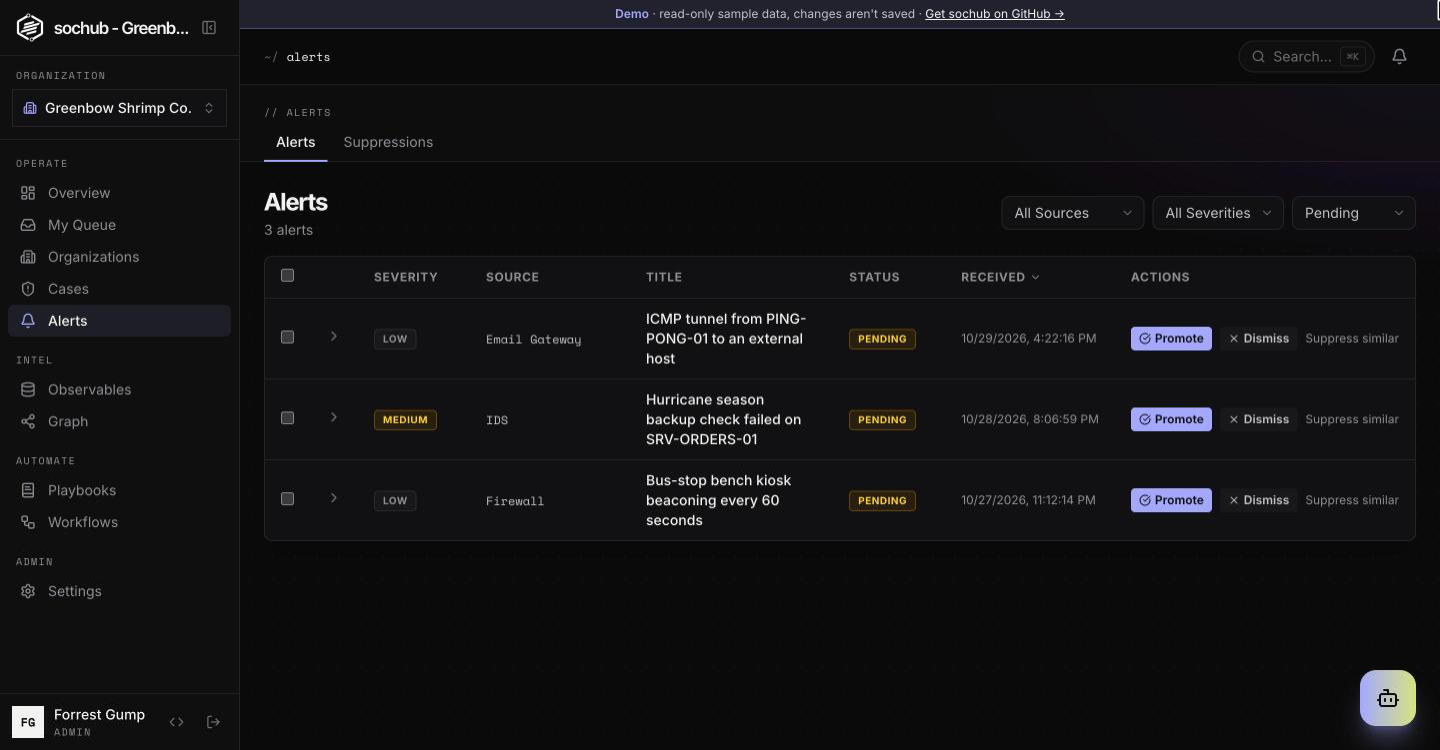
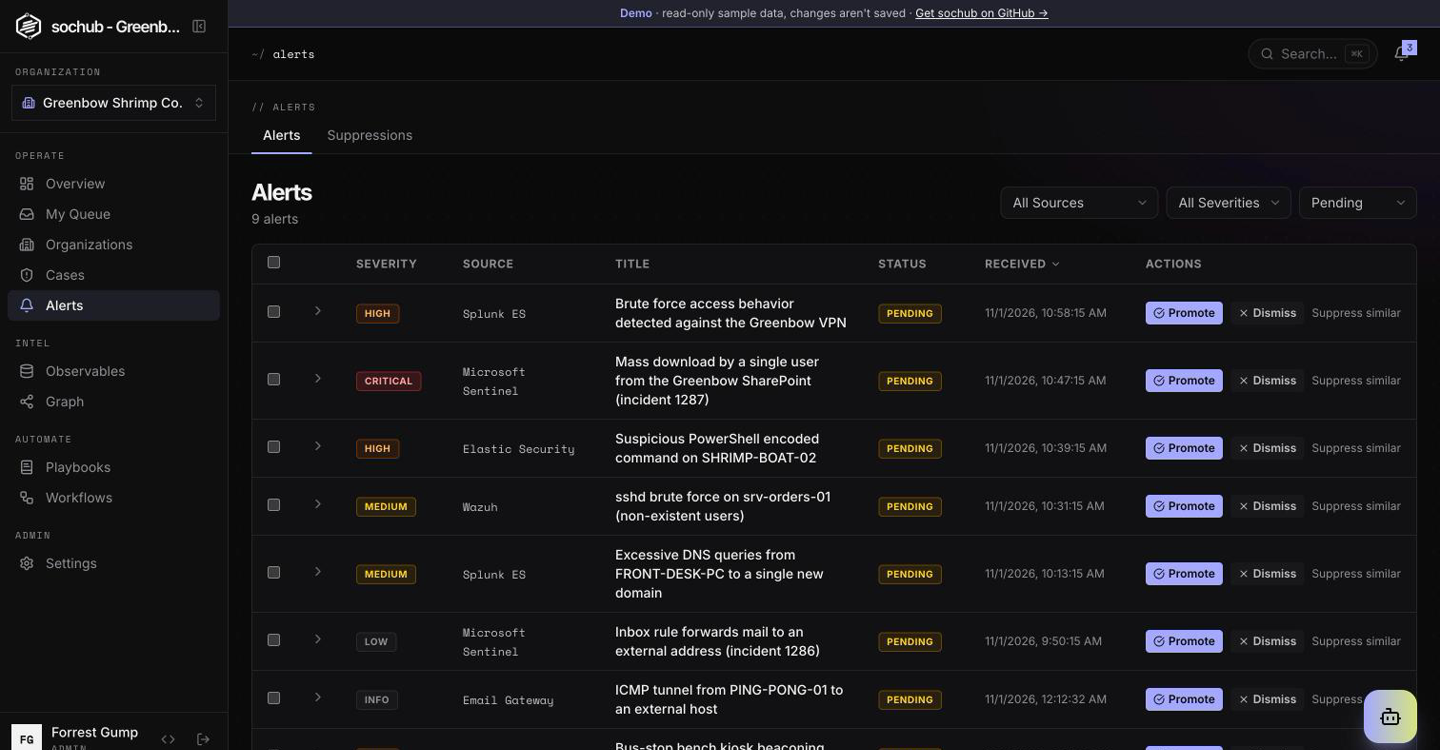
feat(demo): pending alerts from SIEMs (Splunk ES, Microsoft Sentinel, Elastic, Wazuh)
Six alerts with payloads shaped like each product's real output (Splunk ES
notable event, Sentinel incident, Elastic Security detection alert, Wazuh
alert), using Greenbow's fictional users and hosts and documentation-range
IPs/example domains, so the demo shows what the SIEM -> case flow looks like.

diff --git a/backend/app/scripts/demo_fixtures.py b/backend/app/scripts/demo_fixtures.py
@@ -74,6 +74,65 @@ COMMENTS = [
 ]
 
 
+def siem_alerts(now: datetime) -> list[dict]:
+    """Alerts as SIEMs actually send them (webhook or a pull workflow): each payload is shaped like that product's
+    output, with Greenbow's fictional users and hosts and documentation-range IPs and example domains."""
+    t = lambda minutes: (now - timedelta(minutes=minutes)).strftime("%Y-%m-%dT%H:%M:%SZ")  # noqa: E731
+    return [
+        {"source": "Splunk ES", "external_id": "6E1C3F7A-2B44-4C1D-9E0B-5A8D2F1E7C44@@notable@@a91f0c2e", "minutes": 7,
+         "severity": "high", "title": "Brute force access behavior detected against the Greenbow VPN",
+         "payload": {"search_name": "Access - Brute Force Access Behavior Detected - Rule", "rule_name": "Brute Force Access Behavior Detected",
+                     "security_domain": "access", "urgency": "high", "status_label": "New", "owner": "unassigned",
+                     "src": "198.51.100.23", "dest": "vpn.greenbow.example", "user": "jenny@greenbow.example", "app": "GlobalProtect",
+                     "count": 312, "failure": 309, "success": 3, "orig_time": t(9),
+                     "annotations": {"mitre_attack": ["T1110.003"], "kill_chain_phases": ["Exploitation"]},
+                     "drilldown_search": "| tstats count from datamodel=Authentication where Authentication.src=198.51.100.23 by Authentication.user"}},
+        {"source": "Microsoft Sentinel", "external_id": "c8f2d6e0-41b7-4a5e-8f3c-2d9e7b1a6f30", "minutes": 18,
+         "severity": "critical", "title": "Mass download by a single user from the Greenbow SharePoint (incident 1287)",
+         "payload": {"name": "c8f2d6e0-41b7-4a5e-8f3c-2d9e7b1a6f30", "type": "Microsoft.SecurityInsights/Incidents",
+                     "properties": {"incidentNumber": 1287, "title": "Mass download by a single user", "severity": "High",
+                                    "status": "New", "createdTimeUtc": t(18), "firstActivityTimeUtc": t(41), "lastActivityTimeUtc": t(20),
+                                    "additionalData": {"alertsCount": 2, "tactics": ["Exfiltration", "Collection"],
+                                                       "alertProductNames": ["Microsoft Defender for Cloud Apps"]},
+                                    "description": "lt.dan@greenbow.example downloaded 1,284 files from the 'Shrimp Recipes' site in 20 minutes.",
+                                    "labels": [{"labelName": "insider-risk", "labelType": "User"}],
+                                    "relatedAnalyticRuleIds": ["/subscriptions/00000000-0000-0000-0000-000000000000/resourceGroups/soc/providers/Microsoft.OperationalInsights/workspaces/greenbow-sentinel/providers/Microsoft.SecurityInsights/alertRules/5b7e1c90-mass-download"]}}},
+        {"source": "Elastic Security", "external_id": "b3b0f0d4c3a1e8f2d5c7a9e1b4d6f8a0c2e4f6a8", "minutes": 26,
+         "severity": "high", "title": "Suspicious PowerShell encoded command on SHRIMP-BOAT-02",
+         "payload": {"@timestamp": t(26), "kibana.alert.rule.name": "Suspicious PowerShell Encoded Command",
+                     "kibana.alert.rule.rule_id": "9a1e0a2b-5c3d-4e6f-8a7b-0c1d2e3f4a5b", "kibana.alert.severity": "high",
+                     "kibana.alert.risk_score": 73, "kibana.alert.workflow_status": "open",
+                     "host": {"name": "SHRIMP-BOAT-02", "os": {"family": "windows"}},
+                     "user": {"name": "bubba", "domain": "GREENBOW"},
+                     "process": {"name": "powershell.exe", "command_line": "powershell.exe -NoP -W Hidden -enc SQBFAFgAIAAoAE4AZQB3AC0ATwBiAGoAZQBjAHQAIABOAGUAdAAuAFcAZQBiAEMAbABpAGUAbgB0ACkA",
+                                 "parent": {"name": "WINWORD.EXE"}},
+                     "threat": [{"framework": "MITRE ATT&CK", "tactic": {"id": "TA0002", "name": "Execution"},
+                                 "technique": [{"id": "T1059", "name": "Command and Scripting Interpreter",
+                                                "subtechnique": [{"id": "T1059.001", "name": "PowerShell"}]}]}]}},
+        {"source": "Wazuh", "external_id": "1730197442.4021337", "minutes": 34,
+         "severity": "medium", "title": "sshd brute force on srv-orders-01 (non-existent users)",
+         "payload": {"timestamp": t(34), "rule": {"id": "5712", "level": 10, "description": "sshd: brute force trying to get access to the system. Non existent user.",
+                                                  "groups": ["syslog", "sshd", "authentication_failures"], "firedtimes": 8,
+                                                  "mitre": {"id": ["T1110"], "tactic": ["Credential Access"], "technique": ["Brute Force"]}},
+                     "agent": {"id": "004", "name": "srv-orders-01", "ip": "10.20.4.11"},
+                     "data": {"srcip": "203.0.113.9", "srcuser": "shrimpadmin"},
+                     "full_log": "sshd[2214]: Invalid user shrimpadmin from 203.0.113.9 port 51544",
+                     "location": "/var/log/auth.log"}},
+        {"source": "Splunk ES", "external_id": "0B7D9E21-8F63-4A0C-B1E5-7C2F4A9D3E18@@notable@@4c7e2a90", "minutes": 52,
+         "severity": "medium", "title": "Excessive DNS queries from FRONT-DESK-PC to a single new domain",
+         "payload": {"search_name": "Network - Excessive DNS Queries - Rule", "security_domain": "network", "urgency": "medium",
+                     "src": "10.20.1.42", "src_nt_host": "FRONT-DESK-PC", "query": "x7f3.cdn-track.example.net", "count": 4182,
+                     "unique_subdomains": 3907, "orig_time": t(55), "annotations": {"mitre_attack": ["T1071.004", "T1048"]}}},
+        {"source": "Microsoft Sentinel", "external_id": "5a1f9b3c-77d2-4e08-9c64-1b2a3c4d5e6f", "minutes": 75,
+         "severity": "low", "title": "Inbox rule forwards mail to an external address (incident 1286)",
+         "payload": {"name": "5a1f9b3c-77d2-4e08-9c64-1b2a3c4d5e6f", "type": "Microsoft.SecurityInsights/Incidents",
+                     "properties": {"incidentNumber": 1286, "title": "Suspicious inbox forwarding rule", "severity": "Low",
+                                    "status": "New", "createdTimeUtc": t(75),
+                                    "additionalData": {"alertsCount": 1, "tactics": ["Collection"], "alertProductNames": ["Microsoft Defender for Office 365"]},
+                                    "description": "A rule on jenny@greenbow.example forwards messages containing 'invoice' to bait-orders@mail.example.org."}}},
+    ]
+
+
 def themed_case(i: int) -> tuple[str, str]:
     title, desc = CASES[i % len(CASES)]
     return (title if i < len(CASES) else f"{title} (again)"), desc
@@ -124,6 +183,11 @@ async def setup() -> tuple[int, str]:
             ev.content = COMMENTS[i % len(COMMENTS)]
         for i, alert in enumerate((await db.execute(select(Alert).where(Alert.tenant_id == tid).order_by(Alert.id))).scalars()):
             alert.title = CASES[(i * 2 + 1) % len(CASES)][0]
+        # Pending alerts from the SIEMs, newest first in the Alerts queue.
+        now = datetime.now(timezone.utc)
+        for a in siem_alerts(now):
+            db.add(Alert(tenant_id=tid, source=a["source"], external_id=a["external_id"], title=a["title"], severity=a["severity"],
+                         status="pending", payload=a["payload"], created_at=now - timedelta(minutes=a["minutes"])))
         await db.commit()
         # The API only accepts tokens of a live server-side session.
         owner = (await db.execute(select(User).where(User.email == PEOPLE[0][1]))).scalars().one()
